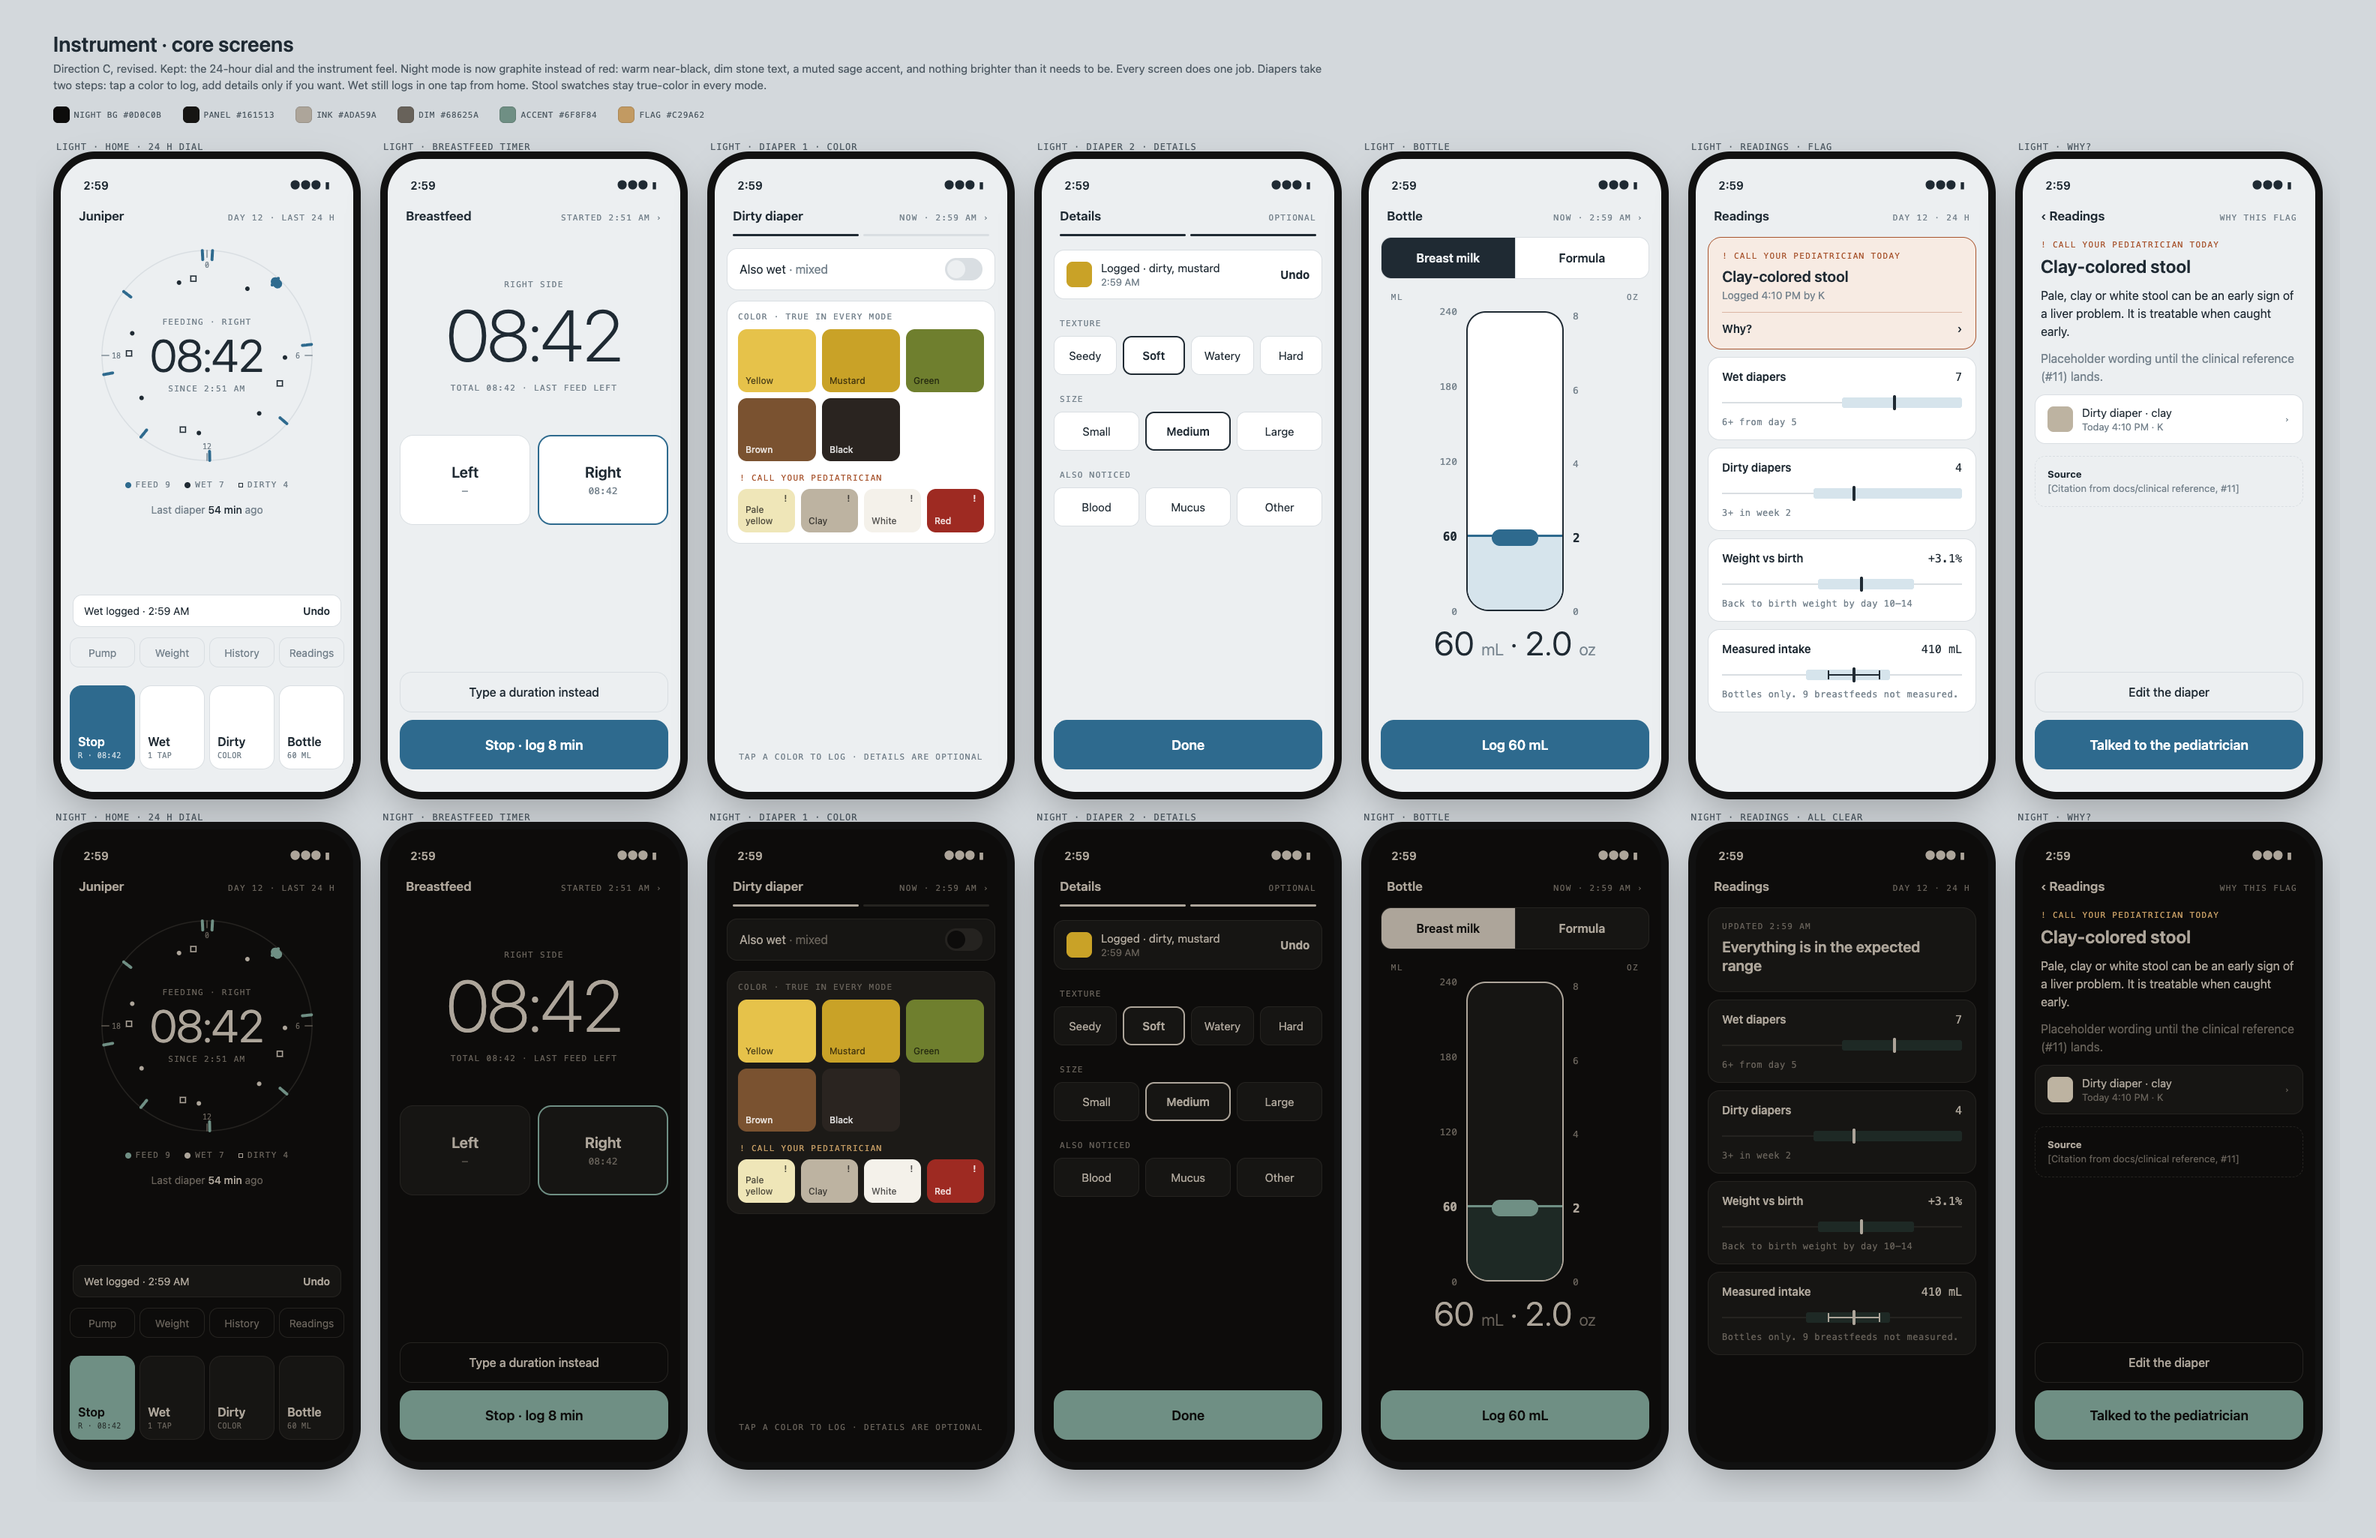
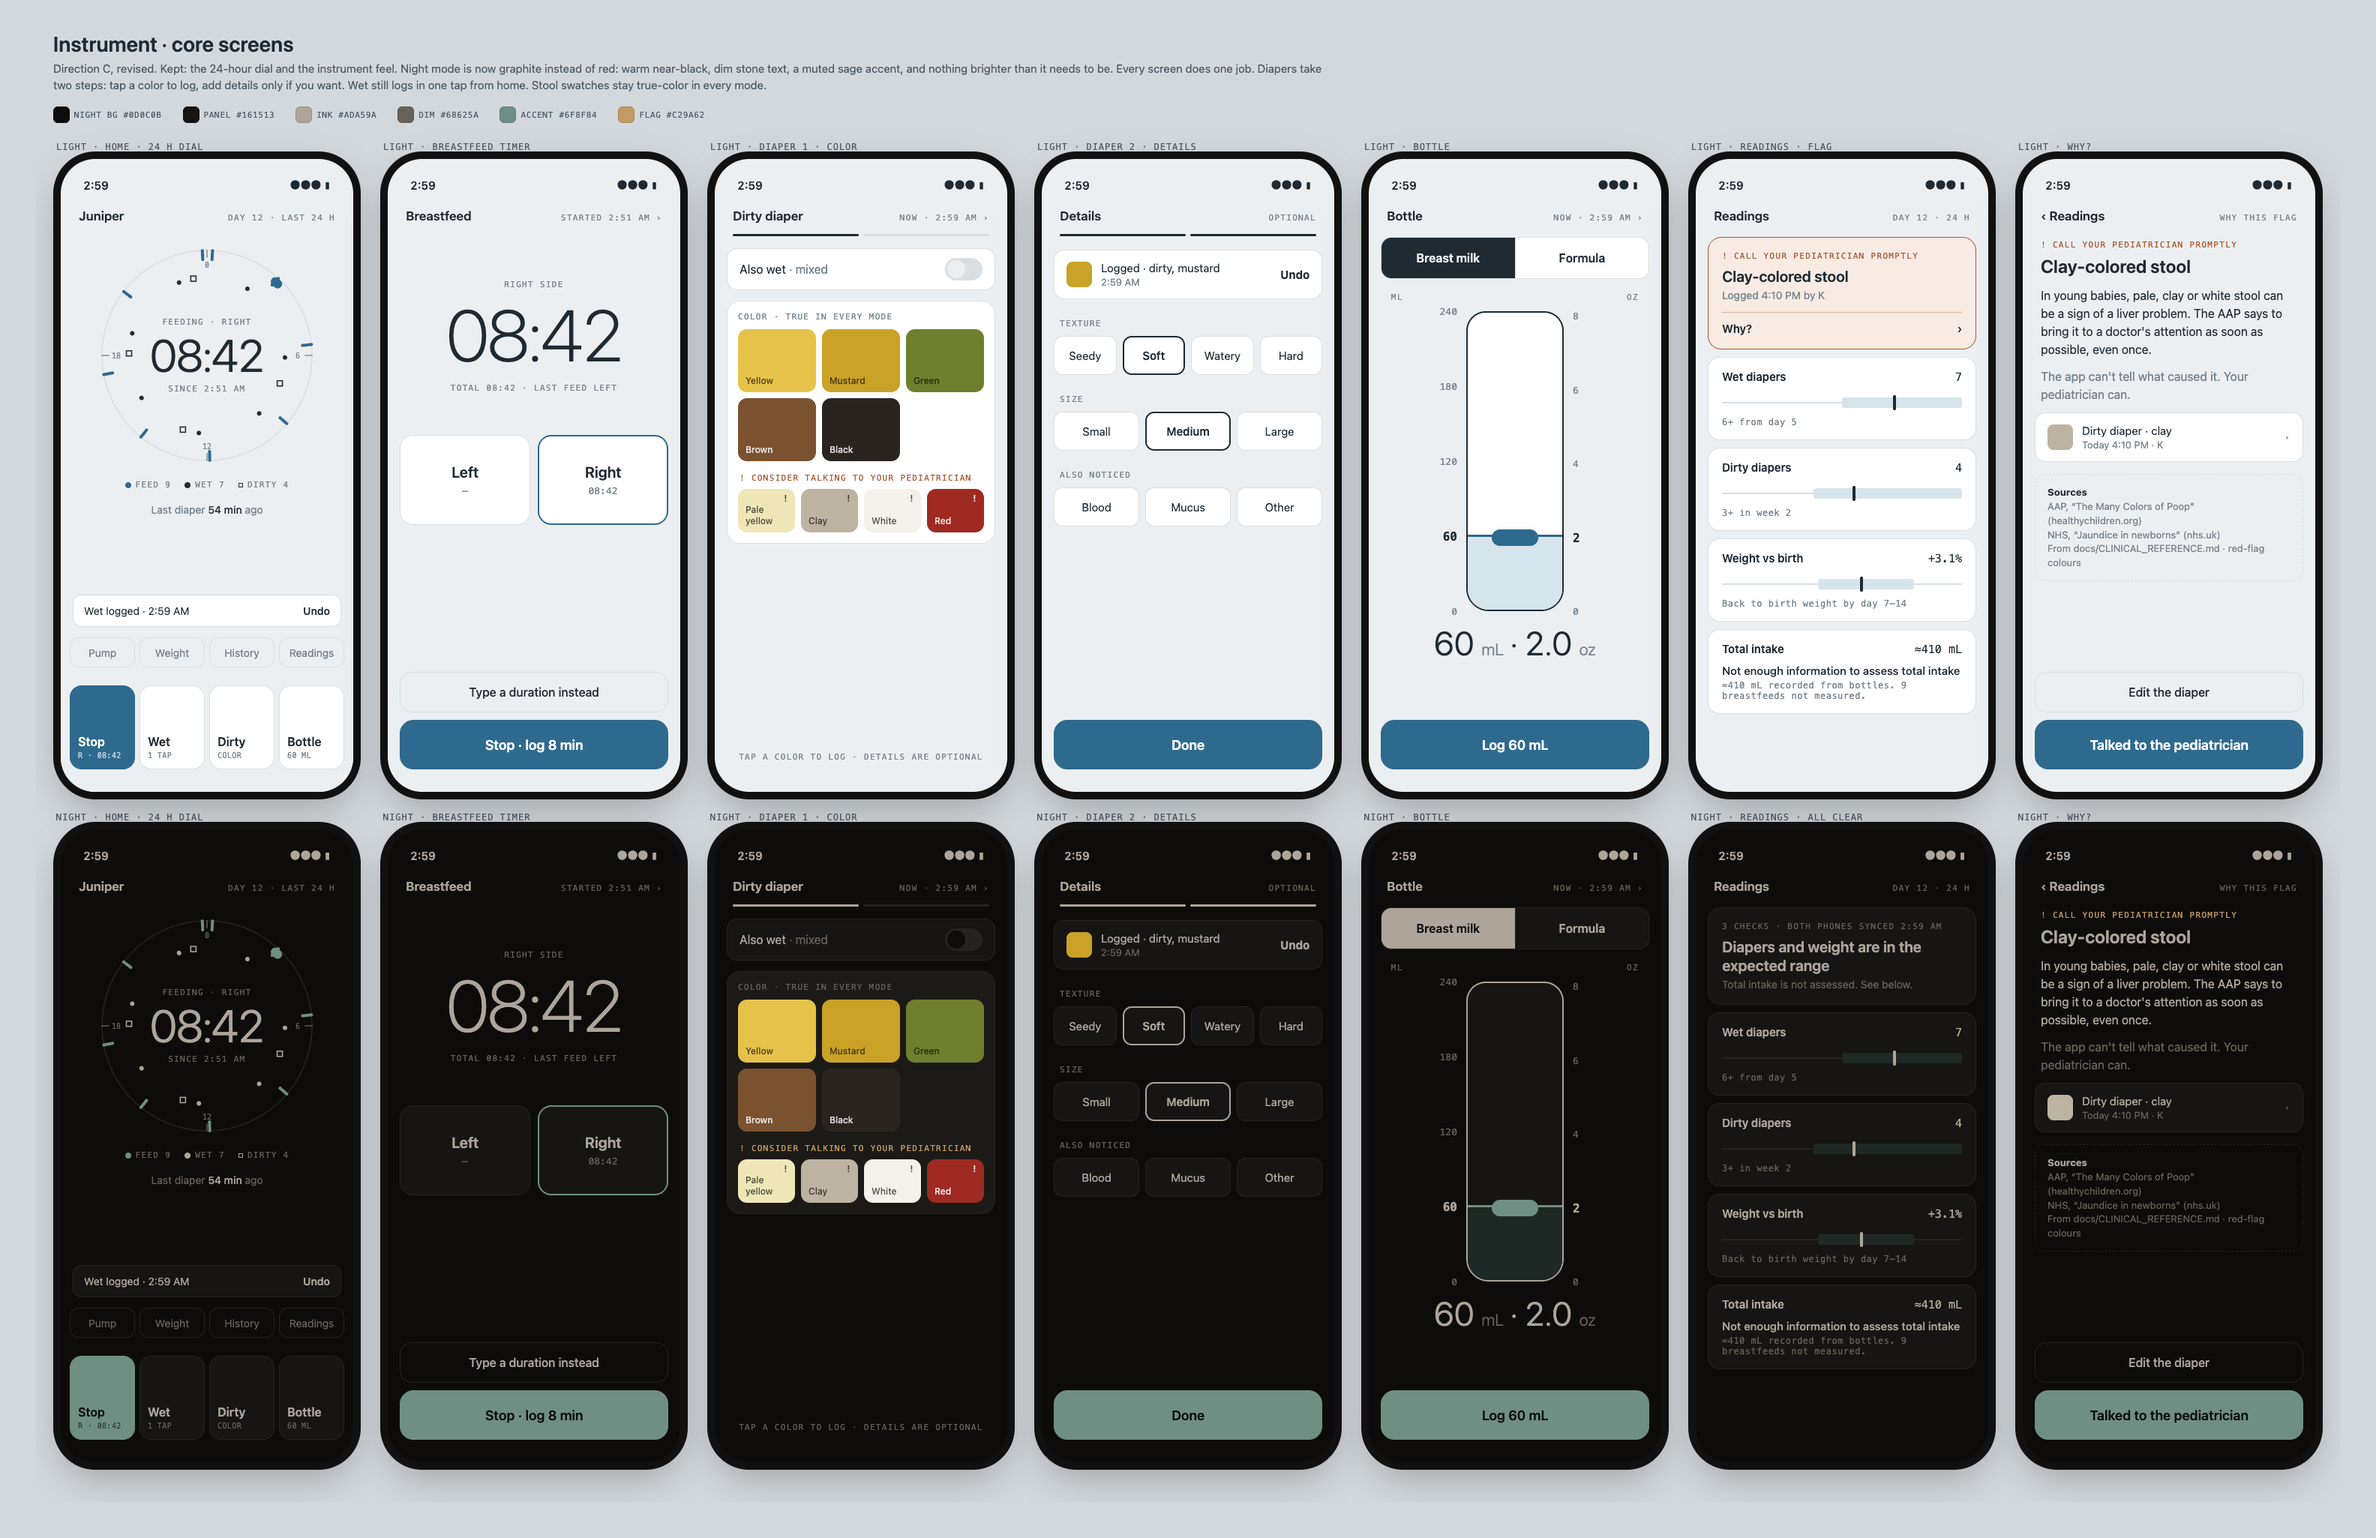
docs/design: honest readings and cited flag copy (#14 review)
Readings drops the intake error bars and shows recorded volume as
approximate. Unmeasured breastfeeds give "Not enough information to
assess total intake", and the verdict names only the checks it ran.
Flags default to "Consider talking to your pediatrician"; the clay
stool flag says "promptly" and the Why screen cites AAP and NHS from
the clinical reference. The outcome assurance is gone.

diff --git a/docs/design/direction.html b/docs/design/direction.html
@@ -119,9 +119,6 @@ body{background:#D3D8DC;font-family:-apple-system,system-ui,sans-serif;padding:4
 .track .base{position:absolute;left:0;right:0;top:12px;height:2px;background:var(--line)}
 .track .band{position:absolute;top:6px;height:14px;background:var(--band);border-radius:3px}
 .track .pt{position:absolute;top:3px;width:4px;height:20px;background:var(--ink);border-radius:2px;margin-left:-2px}
-.track .err{position:absolute;top:12px;height:2px;background:var(--ink)}
-.track .err::before,.track .err::after{content:"";position:absolute;top:-5px;width:2px;height:12px;background:var(--ink)}
-.track .err::before{left:0}.track .err::after{right:0}
 
 /* why */
 .prose{margin:22px 24px 0;font-size:16px;line-height:1.5}
@@ -189,7 +186,7 @@ diaperColor:()=>`${sb}${hdr('Dirty diaper','Now · 2:59 AM ›')}
 <div class="toggle"><span>Also wet <span style="color:var(--dim)">· mixed</span></span><span class="sw"></span></div>
 <div class="well"><div class="lab">Color · true in every mode</div>
 <div class="grid" style="margin-top:10px">${SW.normal.map(([n,c,d])=>`<div class="tile ${d?'dk':''}" style="background:${c}">${n}</div>`).join('')}</div>
-<div class="lab flagnote">! Call your pediatrician</div>
+<div class="lab flagnote">! Consider talking to your pediatrician</div>
 <div class="grid" style="grid-template-columns:repeat(4,1fr)">${SW.flag.map(([n,c,d])=>`<div class="tile sm fl ${d?'dk':''}" style="background:${c}">${n}</div>`).join('')}</div></div>
 <div class="hint lab">Tap a color to log · details are optional</div>`,
 
@@ -212,18 +209,18 @@ bottle:()=>{const H=400,at=v=>H-(v/240)*H;
 <div class="go">Log 60 mL</div>`},
 
 readingsFlag:()=>`${sb}${hdr('Readings','Day 12 · 24 h')}
-<div class="verdict flag"><div class="lab">! Call your pediatrician today</div><h3>Clay-colored stool</h3><p>Logged 4:10 PM by K</p><div class="more"><span>Why?</span><span>›</span></div></div>
+<div class="verdict flag"><div class="lab">! Call your pediatrician promptly</div><h3>Clay-colored stool</h3><p>Logged 4:10 PM by K</p><div class="more"><span>Why?</span><span>›</span></div></div>
 ${gauges()}`,
 readingsOk:()=>`${sb}${hdr('Readings','Day 12 · 24 h')}
-<div class="verdict"><div class="lab">Updated 2:59 AM</div><h3>Everything is in the expected range</h3></div>
+<div class="verdict"><div class="lab">3 checks · both phones synced 2:59 AM</div><h3>Diapers and weight are in the expected range</h3><p>Total intake is not assessed. See below.</p></div>
 ${gauges()}`,
 
 why:()=>`${sb}${hdr('‹ Readings','Why this flag')}
-<div class="prose"><div class="lab" style="color:var(--flag)">! Call your pediatrician today</div><h2>Clay-colored stool</h2>
-<p>Pale, clay or white stool can be an early sign of a liver problem. It is treatable when caught early.</p>
-<p style="color:var(--dim)">Placeholder wording until the clinical reference (#11) lands.</p></div>
+<div class="prose"><div class="lab" style="color:var(--flag)">! Call your pediatrician promptly</div><h2>Clay-colored stool</h2>
+<p>In young babies, pale, clay or white stool can be a sign of a liver problem. The AAP says to bring it to a doctor's attention as soon as possible, even once.</p>
+<p style="color:var(--dim)">The app can't tell what caused it. Your pediatrician can.</p></div>
 <div class="done" style="margin-top:8px"><span class="chip" style="background:#BDB3A1"></span><div>Dirty diaper · clay<small>Today 4:10 PM · K</small></div><span class="lab">›</span></div>
-<div class="src"><b style="color:var(--ink)">Source</b><br>[Citation from docs/clinical reference, #11]</div>
+<div class="src"><b style="color:var(--ink)">Sources</b><br>AAP, “The Many Colors of Poop” (healthychildren.org)<br>NHS, “Jaundice in newborns” (nhs.uk)<br>From docs/CLINICAL_REFERENCE.md · red-flag colours</div>
 <div class="go2">Edit the diaper</div>
 <div class="go">Talked to the pediatrician</div>`,
 
@@ -265,8 +262,8 @@ signin:()=>`${sb}
 <div class="go2">I have an invite</div>
 <div class="go">Sign in with a passkey</div>`,
 };
-function gauges(){return [["Wet diapers","7",[50,100],72,"6+ from day 5"],["Dirty diapers","4",[38,100],55,"3+ in week 2"],["Weight vs birth","+3.1%",[40,80],58,"Back to birth weight by day 10–14"]].map(([k,v,[b1,b2],p,n])=>`<div class="gauge"><div class="r"><span class="k">${k}</span><span class="v">${v}</span></div><div class="track"><div class="base"></div><div class="band" style="left:${b1}%;right:${100-b2}%"></div><div class="pt" style="left:${p}%"></div></div><div class="lab" style="margin-top:6px;letter-spacing:.04em;text-transform:none;font-size:12px">${n}</div></div>`).join('')
-+`<div class="gauge"><div class="r"><span class="k">Measured intake</span><span class="v">410 mL</span></div><div class="track"><div class="base"></div><div class="band" style="left:35%;right:30%"></div><div class="err" style="left:44%;width:22%"></div><div class="pt" style="left:55%"></div></div><div class="lab" style="margin-top:6px;letter-spacing:.04em;text-transform:none;font-size:12px">Bottles only. 9 breastfeeds not measured.</div></div>`}
+function gauges(){return [["Wet diapers","7",[50,100],72,"6+ from day 5"],["Dirty diapers","4",[38,100],55,"3+ in week 2"],["Weight vs birth","+3.1%",[40,80],58,"Back to birth weight by day 7–14"]].map(([k,v,[b1,b2],p,n])=>`<div class="gauge"><div class="r"><span class="k">${k}</span><span class="v">${v}</span></div><div class="track"><div class="base"></div><div class="band" style="left:${b1}%;right:${100-b2}%"></div><div class="pt" style="left:${p}%"></div></div><div class="lab" style="margin-top:6px;letter-spacing:.04em;text-transform:none;font-size:12px">${n}</div></div>`).join('')
++`<div class="gauge"><div class="r"><span class="k">Total intake</span><span class="v">≈410 mL</span></div><div style="margin-top:10px;font-size:15px;font-weight:500">Not enough information to assess total intake</div><div class="lab" style="margin-top:4px;letter-spacing:.04em;text-transform:none;font-size:12px">≈410 mL recorded from bottles. 9 breastfeeds not measured.</div></div>`}
 
 const BOARDS={
  core:{h:"Instrument · core screens",cols:[["Home · 24 h dial","home","home"],["Breastfeed timer","feed","feed"],["Diaper 1 · color","diaperColor","diaperColor"],["Diaper 2 · details","diaperDetails","diaperDetails"],["Bottle","bottle","bottle"],["Readings","readingsFlag","readingsOk"],["Why?","why","why"]]},

diff --git a/docs/design/README.md b/docs/design/README.md
@@ -43,7 +43,7 @@ flag color is the only warm accent, and it appears only on a flag.
 
 **Stool swatches are true-color in every mode.** They sit in their own well and
 never take the theme tint. The red-flag colors (pale yellow, clay, white, red)
-are grouped under "Call your pediatrician".
+are grouped under "Consider talking to your pediatrician".
 
 ## Flows
 
@@ -62,6 +62,17 @@ bottle, readings (flag and all-clear states), why.
 
 Remaining: pump, weight, history, add a baby, household settings, sign in.
 
-The insight wording and sources are placeholders until the clinical reference
-(#11) lands. The milk-supply estimate is out of v1 (owner, 2026-10-29), so the
-readings screen shows measured intake with error bars instead.
+## Readings and flag copy
+
+- The milk-supply estimate and any intake uncertainty display are out of v1
+  (owner, 2026-10-29; #11). Readings shows recorded volume as approximate
+  ("≈410 mL"), with no range.
+- When any feed is unmeasured (a breastfeed) or the other phone's sync is
+  stale, intake reads "Not enough information to assess total intake".
+- A reassuring line names only the checks that were evaluated ("Diapers and
+  weight are in the expected range"). Never a blanket "everything is fine".
+- Flags default to "Consider talking to your pediatrician". Stronger urgency
+  appears only where docs/CLINICAL_REFERENCE.md cites it, and the Why screen
+  shows that citation. Example: a pale or clay stool reads "Call your
+  pediatrician promptly" (AAP: "as soon as possible"; NHS: urgent).
+- Copy never diagnoses and never promises an outcome.
